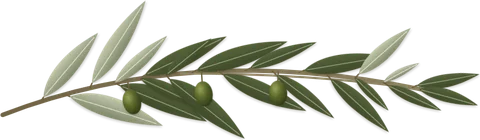
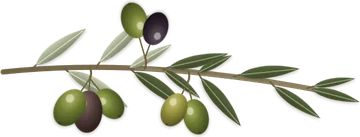
More realistic ivy vine; smaller olive sprigs focused on clusters of olives

diff --git a/site.js b/site.js
@@ -95,8 +95,8 @@ const sprigs = [
   [['rama', 'tl', 1.05, 2, 1, 6.5], ['olivo-b', 'br', 1, 4, 1, 9.5]],
   [['olivo-a', 'tl', .95, -14, 1, 7.5], ['rama', 'br', .9, 8, 1, 8]]
 ];
-const SPRIG_BASE = { 'olivo-a': 82, 'olivo-b': 70 };
-const SPRIG_SIZE = { 'olivo-a': [480, 140], 'olivo-b': [480, 149], rama: [320, 248], helecho: [480, 241] };
+const SPRIG_BASE = { 'olivo-a': 53, 'olivo-b': 47 };
+const SPRIG_SIZE = { 'olivo-a': [360, 137], 'olivo-b': [360, 119], rama: [320, 248], helecho: [480, 241] };
 const root = document.querySelector('link[rel="stylesheet"]').href.replace(/site\.css.*$/, '');
 // El bloque de testimonios va rodeado: las cuatro esquinas y los costados
 const wreath = [['helecho', 'tl', 1, -10, 1, 8], ['olivo-a', 'tr', .9, 6, 1, 7], ['olivo-b', 'bl', .9, -6, 1, 7.5], ['helecho', 'br', .95, 5, 1, 9], ['rama', 'ml', .8, 6, 1, 8.5, 38], ['rama', 'mr', .85, -6, -1, 7, 58]];
@@ -109,44 +109,62 @@ const VINES = {
   'testimonios': [[.42, 0], [0, 0], [0, .62]],
   'contacto': [[.5, 1], [1, 1], [1, .2]]
 };
-const leafPath = l => { const w = l * .62; return `M0 0C${l * .12} ${-w * .9} ${l * .62} ${-w * 1.05} ${l} ${-w * .08}C${l * .7} ${w * .62} ${l * .2} ${w * .78} 0 0Z`; };
+// Hoja de hiedra: base acorazonada, tres lóbulos suaves y punta; apunta hacia +x desde el pecíolo
+const ivy = (l, k) => {
+  const w = l * (.78 + k * .1), q = v => v.toFixed(1);
+  return `M0 0C${q(-l * .08)} ${q(-w * .28)} ${q(l * .06)} ${q(-w * .56)} ${q(l * .3)} ${q(-w * .54)}C${q(l * .42)} ${q(-w * .53)} ${q(l * .46)} ${q(-w * .36)} ${q(l * .55)} ${q(-w * .32)}C${q(l * .72)} ${q(-w * .3)} ${q(l * .9)} ${q(-w * .14)} ${q(l)} 0C${q(l * .9)} ${q(w * .15)} ${q(l * .72)} ${q(w * .31)} ${q(l * .55)} ${q(w * .33)}C${q(l * .46)} ${q(w * .37)} ${q(l * .42)} ${q(w * .54)} ${q(l * .3)} ${q(w * .55)}C${q(l * .06)} ${q(w * .57)} ${q(-l * .08)} ${q(w * .3)} 0 0Z`;
+};
+const ivyVeins = (l, k) => {
+  const w = l * (.78 + k * .1), q = v => v.toFixed(1);
+  return `M${q(l * .02)} 0L${q(l * .9)} 0M${q(l * .06)} 0Q${q(l * .2)} ${q(-w * .2)} ${q(l * .32)} ${q(-w * .44)}M${q(l * .06)} 0Q${q(l * .2)} ${q(w * .2)} ${q(l * .32)} ${q(w * .45)}M${q(l * .3)} 0Q${q(l * .44)} ${q(-w * .12)} ${q(l * .55)} ${q(-w * .26)}M${q(l * .3)} 0Q${q(l * .44)} ${q(w * .12)} ${q(l * .55)} ${q(w * .27)}`;
+};
 const drawVine = (panel, route) => {
-  const W = panel.offsetWidth, H = panel.offsetHeight, pad = 40, off = -9;
+  const W = panel.offsetWidth, H = panel.offsetHeight, pad = 46;
   const pts = route.map(([x, y]) => [x * W, y * H]);
   const segs = []; let total = 0;
   for (let k = 1; k < pts.length; k++) { const [x0, y0] = pts[k - 1], [x1, y1] = pts[k], len = Math.hypot(x1 - x0, y1 - y0); segs.push([x0, y0, (x1 - x0) / len, (y1 - y0) / len, len, total]); total += len; }
-  const cx = (pts[0][0] + pts[pts.length - 1][0]) / 2 < W / 2 ? 1 : -1;
-  const at = d => {
+  // punto a distancia d del recorrido, desplazado hacia afuera del cuadro con una ondulación
+  const at = (d, phase = 0, amp = 5) => {
     const sg = segs.find(s => d <= s[5] + s[4]) || segs[segs.length - 1];
     const u = d - sg[5];
     let nx = -sg[3], ny = sg[2];
-    // la normal apunta hacia afuera del cuadro
     const mx = sg[0] + sg[2] * u, my = sg[1] + sg[3] * u;
-    if ((mx + nx * 10 > 0 && mx + nx * 10 < W && my + ny * 10 > 0 && my + ny * 10 < H)) { nx = -nx; ny = -ny; }
-    const wave = off - 5 - 5 * Math.sin(d / 46);
-    return [mx + nx * wave * -1 + pad, my + ny * wave * -1 + pad, Math.atan2(sg[3], sg[2]) * 180 / Math.PI, nx, ny];
+    if (mx + nx * 10 > 0 && mx + nx * 10 < W && my + ny * 10 > 0 && my + ny * 10 < H) { nx = -nx; ny = -ny; }
+    const o = 12 + amp * Math.sin(d / 52 + phase) + 3 * Math.sin(d / 17 + phase * 2);
+    return [mx + nx * o + pad, my + ny * o + pad, Math.atan2(sg[3], sg[2]) * 180 / Math.PI, nx, ny];
   };
-  let stem = '', leaves = '', curls = '';
-  for (let d = 0; d <= total; d += 6) { const [x, y] = at(d); stem += (d ? 'L' : 'M') + x.toFixed(1) + ' ' + y.toFixed(1); }
-  let side = 1, n = 0;
-  for (let d = 18; d < total - 8; d += 30 + (n * 7) % 16, n++) {
+  const line = (phase, amp, from = 0, to = total) => { let s = ''; for (let d = from; d <= to; d += 5) { const [x, y] = at(d, phase, amp); s += (s ? 'L' : 'M') + x.toFixed(1) + ' ' + y.toFixed(1); } return s; };
+  // el tallo se adelgaza: tres tramos de grosor decreciente
+  const third = total / 3;
+  const stems = [[0, third + 6, 3.4], [third, 2 * third + 6, 2.5], [2 * third, total, 1.6]]
+    .map(([f, t, w], k) => `<path class="stem" pathLength="1" style="--w:${w};--k:${k}" d="${line(0, 5, f, t)}"/>`).join('');
+  const twin = `<path class="stem twin" pathLength="1" style="--w:1.1;--k:.5" d="${line(2.1, 7, total * .08, total * .7)}"/>`;
+  let leaves = '', curls = '', n = 0, side = 1;
+  for (let d = 16; d < total - 6; d += 26 + (n * 11) % 16, n++) {
     const [x, y, a, nx, ny] = at(d), t = d / total;
     side = -side;
-    const l = 15 + ((n * 37) % 11) + 6 * Math.sin(t * Math.PI);
-    const ang = a + side * (48 + (n * 13) % 24);
-    const fill = ['url(#vine-a)', 'url(#vine-b)', 'url(#vine-c)'][n % 3];
-    leaves += `<g transform="translate(${x.toFixed(1)} ${y.toFixed(1)}) rotate(${ang.toFixed(1)})"><path class="leaf" style="--t:${t.toFixed(3)}" fill="${fill}" d="${leafPath(l)}"/></g>`;
-    if (n % 6 === 3) {
-      const r = 5 + (n % 3);
-      curls += `<path class="curl" style="--t:${t.toFixed(3)}" d="M${x.toFixed(1)} ${y.toFixed(1)}q${(nx * 10).toFixed(1)} ${(ny * 10).toFixed(1)} ${(nx * 14 + r).toFixed(1)} ${(ny * 14).toFixed(1)}a${r} ${r} 0 1 1 ${(-r).toFixed(1)} ${(r * .6).toFixed(1)}a${r * .5} ${r * .5} 0 1 1 ${(r * .5).toFixed(1)} ${(-r * .4).toFixed(1)}"/>`;
+    const size = (18 + ((n * 37) % 10) + 7 * Math.sin(Math.min(1, t * 1.6) * Math.PI / 2)) * (1 - t * .38);
+    const k = ((n * 29) % 10) / 10;
+    const ang = a + side * (58 + (n * 17) % 30) + (side > 0 ? 0 : 0);
+    const pet = 5 + (n % 4) * 2;
+    const ex = x + Math.cos(ang * Math.PI / 180) * pet, ey = y + Math.sin(ang * Math.PI / 180) * pet;
+    const tone = ['a', 'b', 'a', 'c', 'b'][n % 5];
+    leaves += `<g class="leaf" style="--t:${t.toFixed(3)}" transform="translate(${x.toFixed(1)} ${y.toFixed(1)})"><path class="petiole" d="M0 0L${(ex - x).toFixed(1)} ${(ey - y).toFixed(1)}"/><g transform="translate(${(ex - x).toFixed(1)} ${(ey - y).toFixed(1)}) rotate(${(ang + side * 8).toFixed(1)})"><path fill="url(#vine-${tone})" d="${ivy(size, k)}"/><path class="vein" d="${ivyVeins(size, k)}"/></g></g>`;
+    if (n % 7 === 4) {
+      const r = 4 + (n % 3);
+      curls += `<path class="curl" style="--t:${t.toFixed(3)}" d="M${x.toFixed(1)} ${y.toFixed(1)}q${(nx * 8).toFixed(1)} ${(ny * 8).toFixed(1)} ${(nx * 12 + r).toFixed(1)} ${(ny * 12).toFixed(1)}a${r} ${r} 0 1 1 ${(-r).toFixed(1)} ${(r * .6).toFixed(1)}a${r * .5} ${r * .5} 0 1 1 ${(r * .5).toFixed(1)} ${(-r * .4).toFixed(1)}"/>`;
     }
   }
-  const svg = `<svg class="vine" aria-hidden="true" width="${W + pad * 2}" height="${H + pad * 2}" viewBox="0 0 ${W + pad * 2} ${H + pad * 2}"><defs>
-<linearGradient id="vine-bark" x1="0" y1="0" x2="1" y2="1"><stop offset="0" stop-color="#6b5f3e"/><stop offset="1" stop-color="#8d8160"/></linearGradient>
-<linearGradient id="vine-a" x1="0" y1="-1" x2="0" y2="1"><stop offset="0" stop-color="#7f8c50"/><stop offset=".55" stop-color="#55623a"/><stop offset="1" stop-color="#3c4628"/></linearGradient>
-<linearGradient id="vine-b" x1="0" y1="-1" x2="0" y2="1"><stop offset="0" stop-color="#99a066"/><stop offset=".6" stop-color="#6b7646"/><stop offset="1" stop-color="#4c5732"/></linearGradient>
-<linearGradient id="vine-c" x1="0" y1="0" x2="0" y2="1"><stop offset="0" stop-color="#b9bf9c"/><stop offset=".6" stop-color="#8c967a"/><stop offset="1" stop-color="#707a5c"/></linearGradient>
-</defs><path class="stem" pathLength="1" d="${stem}"/>${curls}${leaves}</svg>`;
+  // brotes tiernos en la punta
+  const [bx, by, ba] = at(total);
+  leaves += `<g class="leaf" style="--t:1" transform="translate(${bx.toFixed(1)} ${by.toFixed(1)}) rotate(${ba.toFixed(1)})"><path fill="url(#vine-c)" d="${ivy(8, .3)}"/></g>`;
+  const svg = `<svg class="vine" aria-hidden="true" width="${W + pad * 2}" height="${H + pad * 2}" viewBox="0 0 ${W + pad * 2} ${H + pad * 2}" style="left:-${pad}px;top:-${pad}px"><defs>
+<linearGradient id="vine-bark" x1="0" y1="0" x2="1" y2="1"><stop offset="0" stop-color="#5e5236"/><stop offset=".5" stop-color="#7a6c47"/><stop offset="1" stop-color="#8f8462"/></linearGradient>
+<radialGradient id="vine-a" cx=".3" cy=".35" r=".9"><stop offset="0" stop-color="#7f8d4e"/><stop offset=".55" stop-color="#4f5d33"/><stop offset="1" stop-color="#344023"/></radialGradient>
+<radialGradient id="vine-b" cx=".3" cy=".35" r=".9"><stop offset="0" stop-color="#9aa565"/><stop offset=".6" stop-color="#65723f"/><stop offset="1" stop-color="#46522c"/></radialGradient>
+<radialGradient id="vine-c" cx=".3" cy=".35" r=".9"><stop offset="0" stop-color="#b8bf86"/><stop offset=".6" stop-color="#8b9759"/><stop offset="1" stop-color="#5f6b3a"/></radialGradient>
+<filter id="vine-shadow" x="-10%" y="-10%" width="120%" height="120%"><feDropShadow dx="0" dy="1.6" stdDeviation="1.4" flood-color="#2b2716" flood-opacity=".28"/></filter>
+</defs><g filter="url(#vine-shadow)">${stems}${twin}${curls}${leaves}</g></svg>`;
   panel.querySelector('.vine')?.remove();
   panel.insertAdjacentHTML('beforeend', svg);
 };

diff --git a/site.css b/site.css
@@ -253,7 +253,7 @@ form .btn+.small { margin:.9rem 0 0 }
 .sprig.bl.helecho { left:-16px;top:100%;transform-origin:50% 50%;transform:translateY(-34%) scaleY(-1) rotate(var(--r,0deg)) }
 .sprig.ml { right:calc(100% - 26px);top:var(--y,45%);transform-origin:50% 50%;transform:rotate(calc(-90deg + var(--r,0deg))) scaleX(var(--m,1)) }
 .sprig.mr { left:calc(100% - 26px);top:var(--y,45%);transform-origin:50% 50%;transform:rotate(calc(90deg + var(--r,0deg))) scaleX(var(--m,1)) }
-.sprig.olivo { --o:0 var(--by);width:calc(clamp(150px,22vw,290px) * var(--k,1)) }
+.sprig.olivo { --o:0 var(--by);width:calc(clamp(118px,15vw,200px) * var(--k,1)) }
 .sprig.olivo.tl,.sprig.olivo.tr,.sprig.olivo.br,.sprig.olivo.bl { transform-origin:0 var(--by) }
 .sprig.tl.olivo { left:4px;top:4px;transform:translateY(calc(-1 * var(--by))) rotate(calc(-142deg + var(--r,0deg))) scaleY(-1) }
 .sprig.tr.olivo { left:calc(100% - 4px);top:4px;transform:translateY(calc(-1 * var(--by))) rotate(calc(-38deg + var(--r,0deg))) }
@@ -261,12 +261,15 @@ form .btn+.small { margin:.9rem 0 0 }
 .sprig.bl.olivo { left:4px;top:calc(100% - 4px);transform:translateY(calc(-1 * var(--by))) rotate(calc(142deg + var(--r,0deg))) scaleY(-1) }
 .sprig.br { --wait:.9s }
 /* Enredadera dibujada alrededor de algunos cuadros */
-.vine { position:absolute;left:-40px;top:-40px;z-index:1;overflow:visible;pointer-events:none }
-.vine .stem { fill:none;stroke:url(#vine-bark);stroke-width:2.6;stroke-linecap:round;stroke-dasharray:1;stroke-dashoffset:0;transition:stroke-dashoffset 3.4s var(--ease) .3s }
-.vine .curl { fill:none;stroke:#7a6c47;stroke-width:1.2;stroke-linecap:round;transition:opacity 1s var(--ease) calc(.6s + var(--t) * 3.2s) }
-.vine .leaf { transform-box:fill-box;transform-origin:0 50%;transition:transform 1.3s var(--ease) calc(.5s + var(--t) * 3.2s) }
+.vine { position:absolute;z-index:1;overflow:visible;pointer-events:none }
+.vine .stem { fill:none;stroke:url(#vine-bark);stroke-width:var(--w);stroke-linecap:round;stroke-dasharray:1;stroke-dashoffset:0;transition:stroke-dashoffset 1.3s linear calc(.3s + var(--k) * 1.2s) }
+.vine .twin { stroke:#8a7c56;opacity:.85 }
+.vine .petiole { fill:none;stroke:#6f6342;stroke-width:1.1;stroke-linecap:round }
+.vine .vein { fill:none;stroke:rgba(222,228,190,.5);stroke-width:.7;stroke-linecap:round }
+.vine .curl { fill:none;stroke:#7a6c47;stroke-width:1.1;stroke-linecap:round;transition:opacity 1s var(--ease) calc(.6s + var(--t) * 3.4s) }
+.vine .leaf { transform-box:fill-box;transform-origin:0 50%;transition:scale 1.2s var(--ease) calc(.4s + var(--t) * 3.4s),opacity .8s var(--ease) calc(.4s + var(--t) * 3.4s) }
 .js [data-reveal="panel"]:not(.in) .vine .stem { stroke-dashoffset:1 }
-.js [data-reveal="panel"]:not(.in) .vine .leaf { transform:scale(0) }
+.js [data-reveal="panel"]:not(.in) .vine .leaf { scale:0;opacity:0 }
 .js [data-reveal="panel"]:not(.in) .vine .curl { opacity:0 }
 .sprig.tr { --wait:.65s }
 .sprig.bl { --wait:1.15s }
